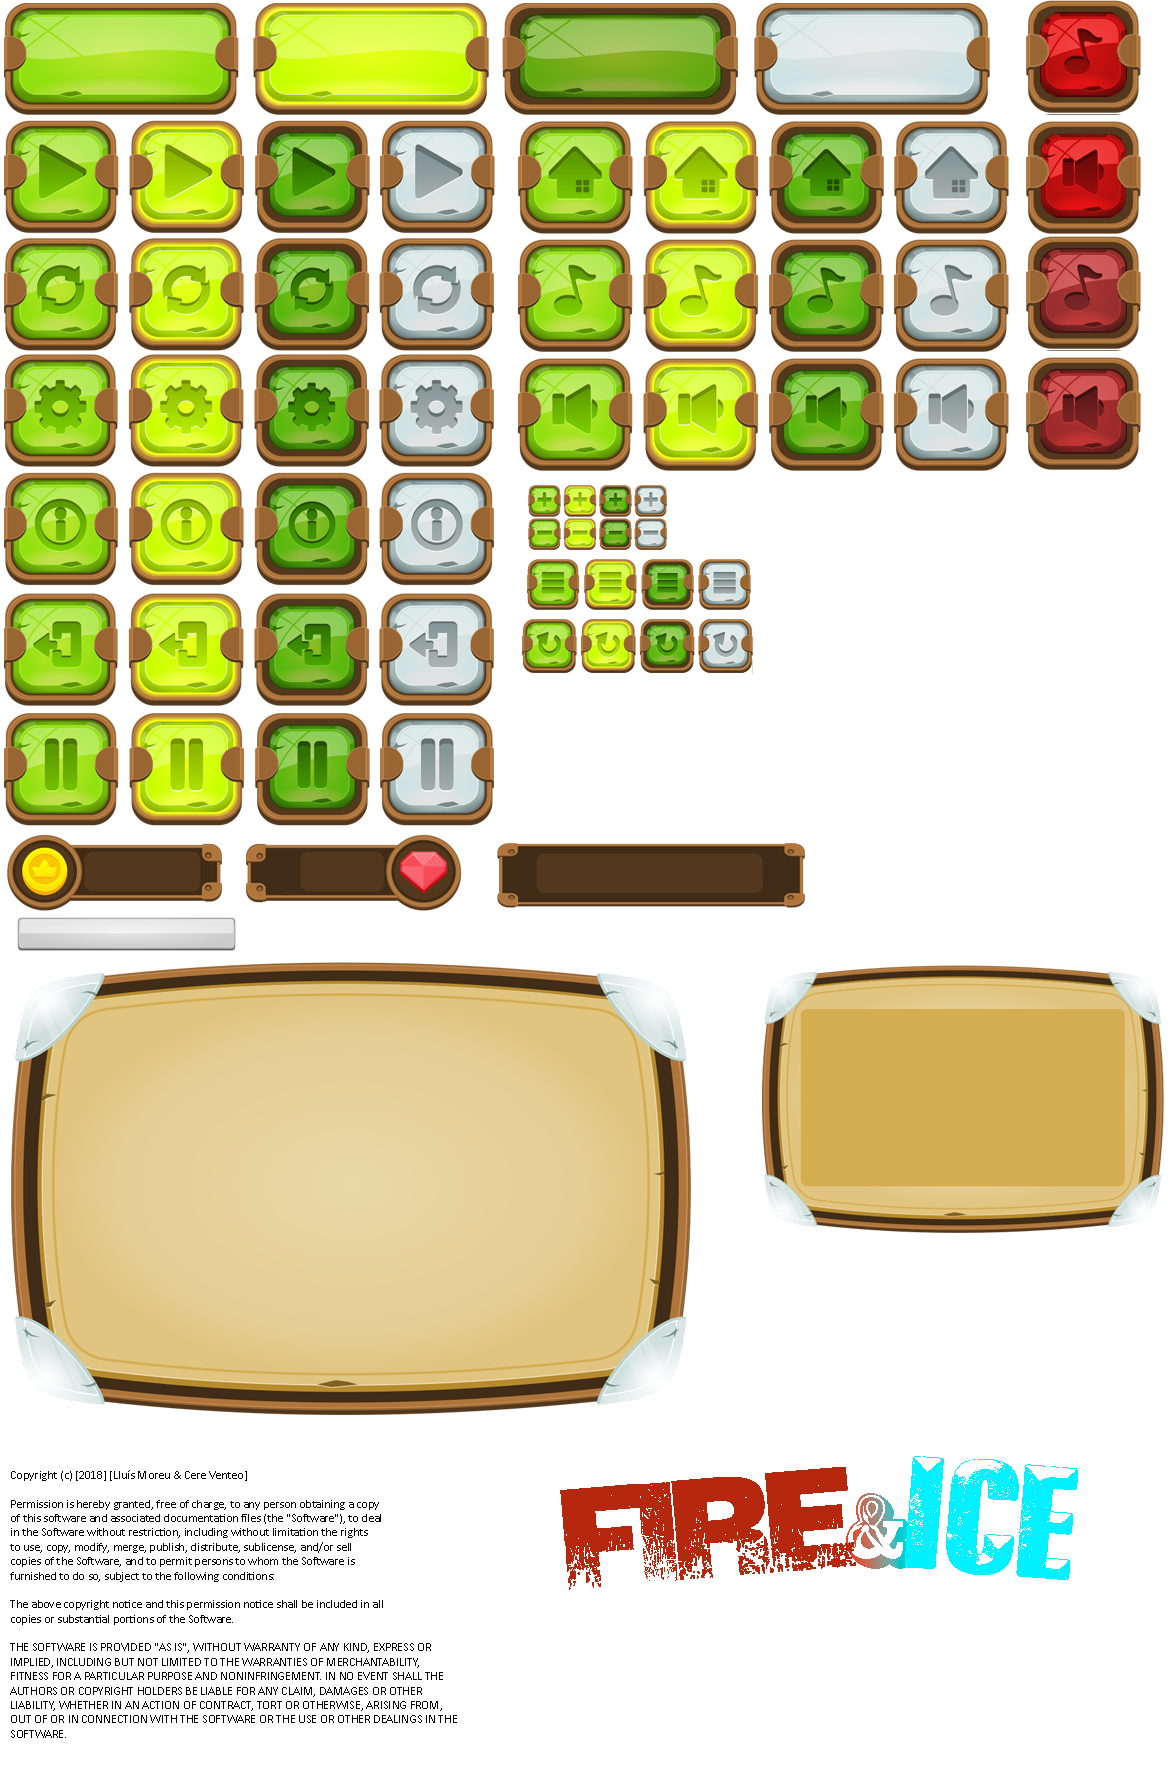
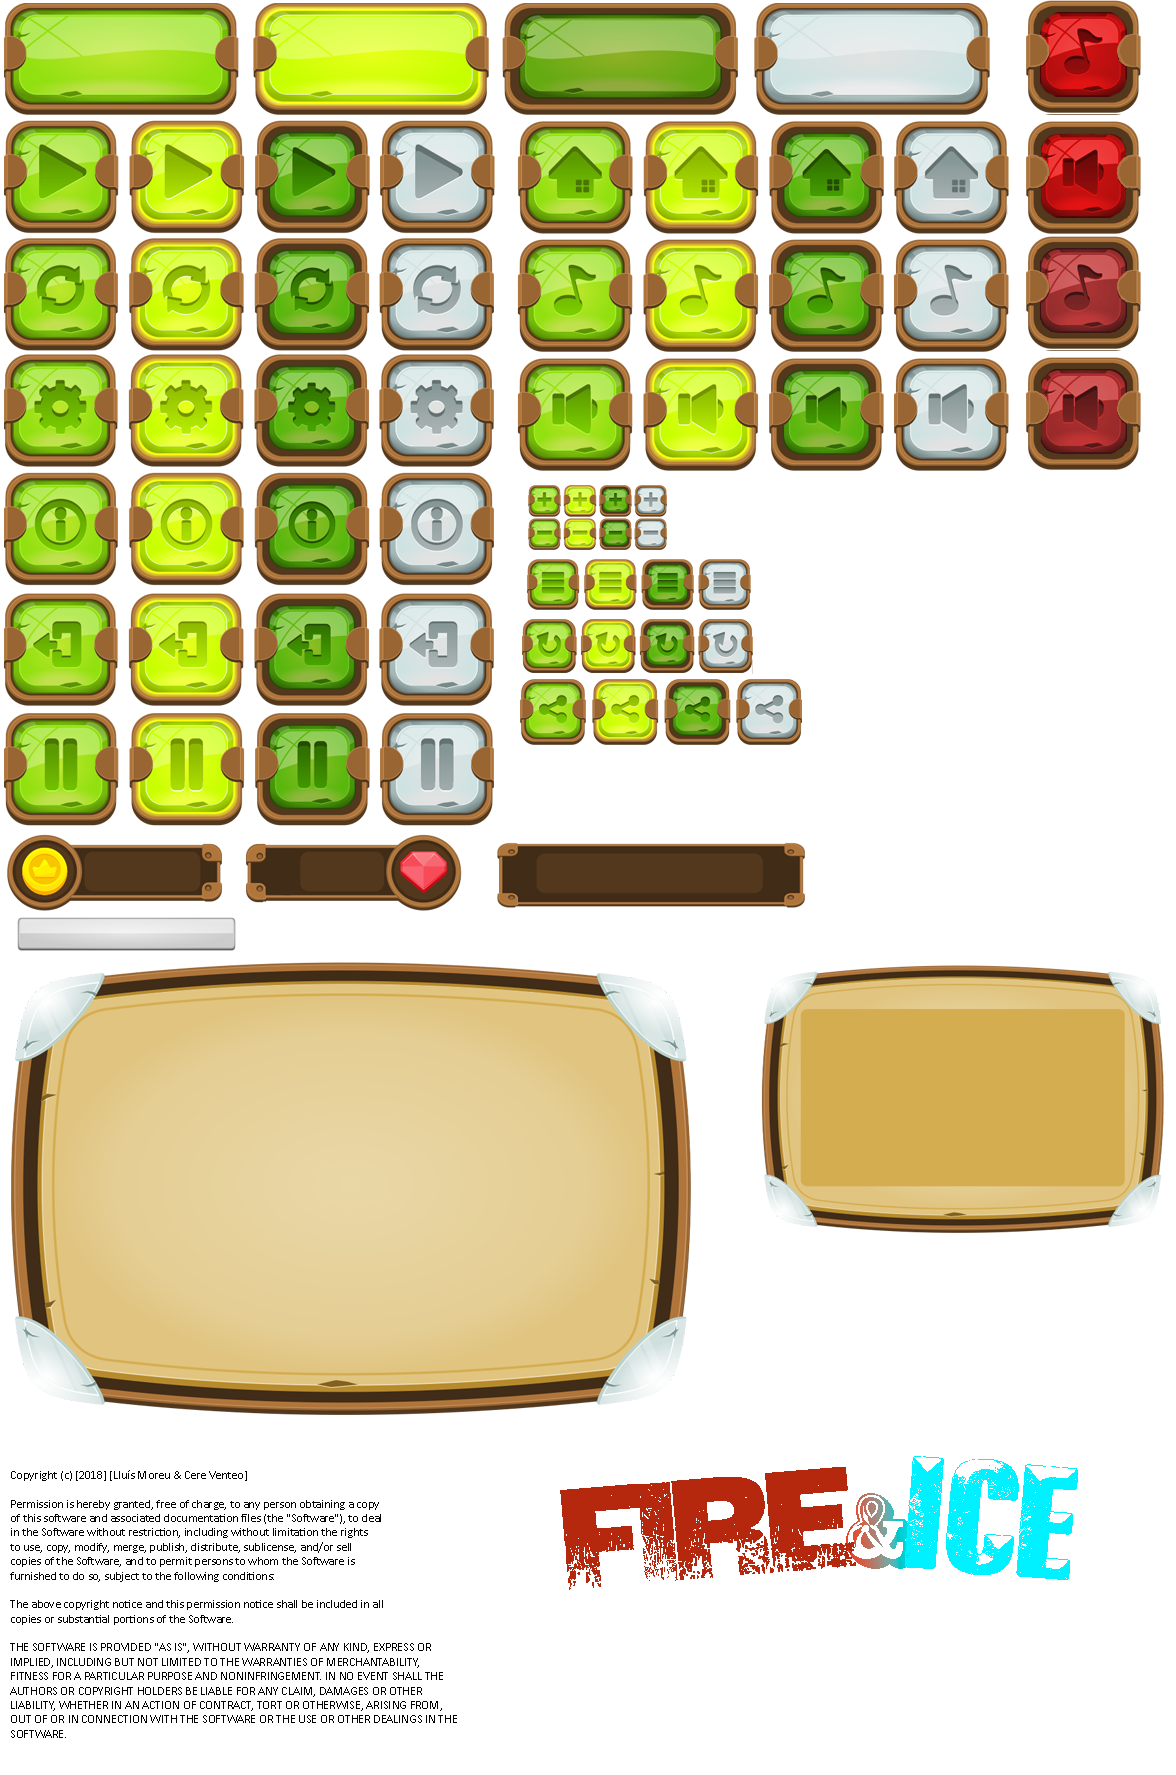
web btn

Changed region(s): [[0.4286, 0.3718, 0.7041, 0.4338]]

diff --git a/DevRookies/DevRookies/Scene.cpp b/DevRookies/DevRookies/Scene.cpp
@@ -107,6 +107,10 @@ bool Scene::Awake(pugi::xml_node& config)
 	LoadRect(config.child("rects").child("plus_hovered").child("rect"), plus_hovered);
 	LoadRect(config.child("rects").child("plus_pressed").child("rect"), plus_pressed);
 
+	LoadRect(config.child("rects").child("web_normal").child("rect"), web_normal);
+	LoadRect(config.child("rects").child("web_hovered").child("rect"), web_hovered);
+	LoadRect(config.child("rects").child("web_pressed").child("rect"), web_pressed);
+
 	//Slider
 
 	LoadRect(config.child("rects").child("slider_rect").child("rect"), slider_rect);
@@ -374,6 +378,7 @@ void Scene::GUICreate()
 	//CREDITS
 	license_img = App->guimanager->CreateImage(iPoint(392, 340), license_rect);
 	credits_little_back_menu_btn = App->guimanager->CreateButton(iPoint(613, 607), little_back_menu_normal, little_back_menu_hovered, little_back_menu_pressed, false);
+	web_btn = App->guimanager->CreateButton(iPoint(840, 314), web_normal, web_hovered, web_pressed, false);
 
 	//MAIN_MENU
 	play_btn = App->guimanager->CreateButton(iPoint(409, 345), play_normal, play_hovered, play_pressed, false);
@@ -540,12 +545,14 @@ void Scene::GUIUpdate()
 		credits_home_btn->Enabled(true);
 		license_img->Enabled(true);
 		credits_little_back_menu_btn->Enabled(true);
+		web_btn->Enabled(true);
 	}
 	else if (credits_home_btn->state == PRESSED || credits_little_back_menu_btn->state == PRESSED) {
 		//disable
 		credits_home_btn->Enabled(false);
 		license_img->Enabled(false);
 		credits_little_back_menu_btn->Enabled(false);
+		web_btn->Enabled(false);
 
 		//enable
 		title_img->Enabled(true);
@@ -685,6 +692,10 @@ void Scene::GUIUpdate()
 		}
 
 		
+	}
+
+	if (web_btn->state == PRESSED) {
+		ShellExecuteA(NULL, "open", "https://devrookies.github.io/Development/", NULL, NULL, SW_SHOWNORMAL);
 	}
 
 }

diff --git a/DevRookies/DevRookies/Scene.h b/DevRookies/DevRookies/Scene.h
@@ -113,7 +113,7 @@ private:
 	GUIButton* little_back_menu_btn = nullptr;
 	GUIButton* credits_little_back_menu_btn = nullptr;
 	GUIButton* little_back_hud_btn = nullptr;
-
+	GUIButton* web_btn = nullptr;
 
 	GUIButton* music_slider_btn = nullptr;
 	GUIButton* fx_slider_btn = nullptr;
@@ -191,6 +191,10 @@ private:
 	SDL_Rect plus_normal;
 	SDL_Rect plus_hovered;
 	SDL_Rect plus_pressed;
+
+	SDL_Rect web_normal;
+	SDL_Rect web_hovered;
+	SDL_Rect web_pressed;
 
 	//SLI
 	SDL_Rect slider_normal;
